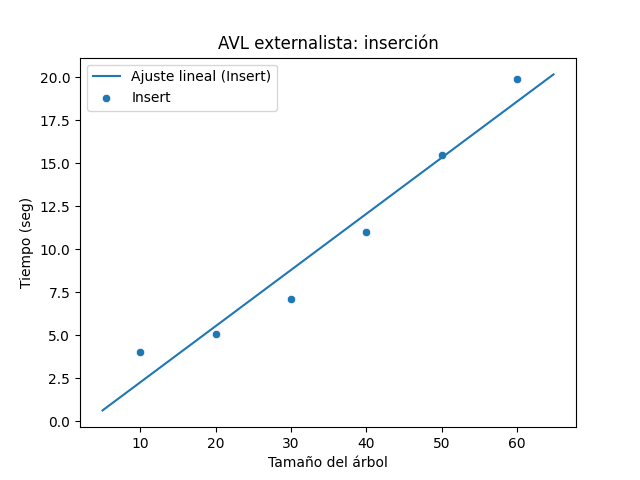
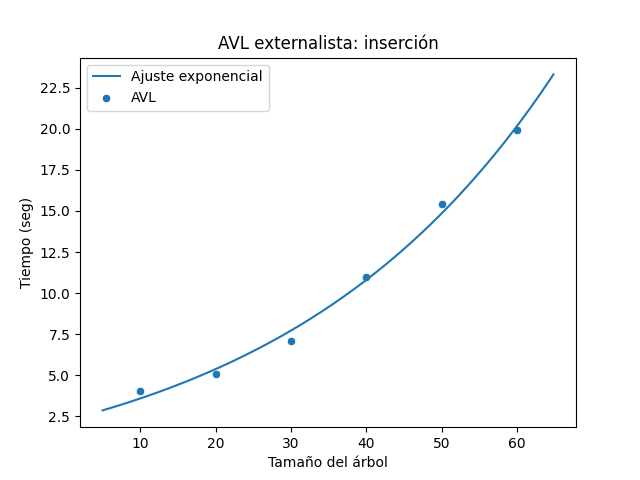
Add new plots

diff --git a/benchmark/plot.py b/benchmark/plot.py
@@ -2,7 +2,7 @@ from pandas import DataFrame, Series, concat
 from seaborn import scatterplot, lineplot
 from matplotlib.pyplot import savefig
 from scipy.optimize import curve_fit
-from numpy import exp2, log2, arange, square, array
+from numpy import exp2, log2, arange, array, abs
 
 
 bst_unsafe_running_times_df = DataFrame({
@@ -86,18 +86,8 @@ all_bench_df = all_bench_df.astype({"bench_name": "category", "bench_type": "cat
 def exp_fun(x, a, b, c):
     return a * exp2(-b * x) + c
 
-def square_fun(x, a, b):
-    return a * square(x) + b
-
-def loglinear_fun(x, a, b, c):
-    return (a * x + b) * log2(x) + c
-
 def linear_fun(x, a, b):
     return a * x + b
-
-def log_fun(x, a, b):
-    return a * log2(x) + b
-
 
 def get_fit_fun_params(data, bench_name, op):
     y_max = data[(data.bench_name == bench_name) & (data.operation == op)]["time"].max()
@@ -105,32 +95,16 @@ def get_fit_fun_params(data, bench_name, op):
     y_min = data[(data.bench_name == bench_name) & (data.operation == op)]["time"].min()
     x_min = data[(data.bench_name == bench_name) & (data.operation == op) & (data.time == y_min)]["size"].iloc[0]
 
-    if ("fullextern" in bench_name):
+    if ("unsafe" in bench_name):
+        fun = linear_fun
+        fun_legend = f"Ajuste lineal"
+        b = (y_min * x_max - y_max * x_min) / (x_max - x_min)
+        a = (y_max - b) / x_max
+        p0 = (a, b)
+    else:
         fun = exp_fun
-        fun_legend = f"Ajuste exponencial ({op.capitalize()})"
+        fun_legend = f"Ajuste exponencial"
         p0 = (1, - log2(y_max) / x_max, 0)
-    elif ((bench_name == "bst_extern") or (bench_name == "bst_intern")):
-        fun = exp_fun
-        fun_legend = f"Ajuste exponencial ({op.capitalize()})"
-        p0 = (1, - log2(y_max) / x_max, 0)
-    elif((bench_name == "avl_extern") or (bench_name == "avl_intern")):
-        fun = linear_fun
-        fun_legend = f"Ajuste lineal ({op.capitalize()})"
-        b = (y_min * x_max - y_max * x_min) / (x_max - x_min)
-        a = (y_max - b) / x_max
-        p0 = (a, b)
-    elif(bench_name == "bst_unsafe"):
-        fun = linear_fun
-        fun_legend = f"Ajuste lineal ({op.capitalize()})"
-        b = (y_min * x_max - y_max * x_min) / (x_max - x_min)
-        a = (y_max - b) / x_max
-        p0 = (a, b)
-    else:   # (bench_name == "avl_unsafe")
-        fun = linear_fun
-        fun_legend = f"Ajuste lineal ({op.capitalize()})"
-        b = (y_min * x_max - y_max * x_min) / (x_max - x_min)
-        a = (y_max - b) / x_max
-        p0 = (a, b)
     
     return fun, fun_legend, p0
 
@@ -146,6 +120,9 @@ def plot_single_operation(data, op, fit):
 
     plt = scatterplot(x="size", y="time", data=op_data)
 
+    tree_type = "AVL" if "avl" in data["bench_name"].iloc[0].lower() else "BST"
+    data_legend = f"{tree_type}"
+
     if (fit):
         bench_name = data["bench_name"].iloc[0]
         fun, fun_legend, p0 = get_fit_fun_params(data, bench_name, op)
@@ -154,12 +131,11 @@ def plot_single_operation(data, op, fit):
         y_fit = list(map(lambda x: fun(x, *popt), x_fit))
 
         plt = lineplot(x=x_fit, y=y_fit)
-        # fun_legend += f" - ss={'{:.2e}'.format(ss)}/max_s={'{:.2e}'.format(max_s)}"
         print(bench_name, op.lower(), f"- ss={'{:.2e}'.format(ss)}/max_s={'{:.2e}'.format(max_s)}", sep=" ")
 
-        return plt, ([fun_legend], [op.capitalize()])
+        return plt, ([fun_legend], [data_legend])
 
-    return plt, ([], [op.capitalize()])
+    return plt, ([], [data_legend])
 
 def set_plot_labels(plt, title, xlabel, ylabel, legends):
     plt.set_title(title)
@@ -207,6 +183,8 @@ def _combine_legend_lists(*args):
 
 
 if __name__ == '__main__':
+    ##### Unsafe
+    ###   BST
     plt, legend_list = plot_single_operation(bst_unsafe_running_times_df, "INSERT", True)
     plt = set_plot_labels(plt, "BST no seguro: inserción", "Tamaño del árbol", "Tiempo (seg)", _combine_legend_lists(legend_list))
     save_plot(plt, "plots/unsafe/bst_unsafe_insert.png")
@@ -216,7 +194,7 @@ if __name__ == '__main__':
     plt, legend_list = plot_single_operation(bst_unsafe_running_times_df, "LOOKUP", True)
     plt = set_plot_labels(plt, "BST no seguro: búsqueda", "Tamaño del árbol", "Tiempo (seg)", _combine_legend_lists(legend_list))
     save_plot(plt, "plots/unsafe/bst_unsafe_lookup.png")
-
+    ###   AVL
     plt, legend_list = plot_single_operation(avl_unsafe_running_times_df, "INSERT", True)
     plt = set_plot_labels(plt, "AVL no seguro: inserción", "Tamaño del árbol", "Tiempo (seg)", _combine_legend_lists(legend_list))
     save_plot(plt, "plots/unsafe/avl_unsafe_insert.png")
@@ -226,7 +204,22 @@ if __name__ == '__main__':
     plt, legend_list = plot_single_operation(avl_unsafe_running_times_df, "LOOKUP", False)
     plt = set_plot_labels(plt, "AVL no seguro: búsqueda", "Tamaño del árbol", "Tiempo (seg)", _combine_legend_lists(legend_list))
     save_plot(plt, "plots/unsafe/avl_unsafe_lookup.png")
+    ###   BST/AVL per operation
+    _, legend_list_bst = plot_single_operation(bst_unsafe_running_times_df, "INSERT", True)
+    plt, legend_list_avl = plot_single_operation(avl_unsafe_running_times_df, "INSERT", True)
+    plt = set_plot_labels(plt, "BST/AVL: inserción", "Tamaño del árbol", "Tiempo (seg)", _combine_legend_lists(legend_list_bst, legend_list_avl))
+    save_plot(plt, "plots/unsafe/bst_vs_avl_unsafe_insert.png")
+    _, legend_list_bst = plot_single_operation(bst_unsafe_running_times_df, "DELETE", True)
+    plt, legend_list_avl = plot_single_operation(avl_unsafe_running_times_df, "DELETE", True)
+    plt = set_plot_labels(plt, "BST/AVL: borrado", "Tamaño del árbol", "Tiempo (seg)", _combine_legend_lists(legend_list_bst, legend_list_avl))
+    save_plot(plt, "plots/unsafe/bst_vs_avl_unsafe_delete.png")
+    _, legend_list_bst = plot_single_operation(bst_unsafe_running_times_df, "LOOKUP", True)
+    plt, legend_list_avl = plot_single_operation(avl_unsafe_running_times_df, "LOOKUP", False)
+    plt = set_plot_labels(plt, "BST/AVL: búsqueda", "Tamaño del árbol", "Tiempo (seg)", _combine_legend_lists(legend_list_bst, legend_list_avl))
+    save_plot(plt, "plots/unsafe/bst_vs_avl_unsafe_lookup.png")
 
+    ##### Fullextern
+    ###   BST
     plt, legend_list = plot_single_operation(bst_fullextern_compilation_times_df, "INSERT", True)
     plt = set_plot_labels(plt, "BST completamente externalista: inserción", "Tamaño del árbol", "Tiempo (seg)", _combine_legend_lists(legend_list))
     save_plot(plt, "plots/fullextern/bst_fullextern_insert.png")
@@ -236,7 +229,7 @@ if __name__ == '__main__':
     plt, legend_list = plot_single_operation(bst_fullextern_compilation_times_df, "LOOKUP", True)
     plt = set_plot_labels(plt, "BST completamente externalista: búsqueda", "Tamaño del árbol", "Tiempo (seg)", _combine_legend_lists(legend_list))
     save_plot(plt, "plots/fullextern/bst_fullextern_lookup.png")
-
+    ###   AVL
     plt, legend_list = plot_single_operation(avl_fullextern_compilation_times_df, "INSERT", True)
     plt = set_plot_labels(plt, "AVL completamente externalista: inserción", "Tamaño del árbol", "Tiempo (seg)", _combine_legend_lists(legend_list))
     save_plot(plt, "plots/fullextern/avl_fullextern_insert.png")
@@ -246,7 +239,22 @@ if __name__ == '__main__':
     plt, legend_list = plot_single_operation(avl_fullextern_compilation_times_df, "LOOKUP", True)
     plt = set_plot_labels(plt, "AVL completamente externalista: búsqueda", "Tamaño del árbol", "Tiempo (seg)", _combine_legend_lists(legend_list))
     save_plot(plt, "plots/fullextern/avl_fullextern_lookup.png")
+    ###   BST/AVL per operation
+    _, legend_list_bst = plot_single_operation(bst_fullextern_compilation_times_df, "INSERT", True)
+    plt, legend_list_avl = plot_single_operation(avl_fullextern_compilation_times_df, "INSERT", True)
+    plt = set_plot_labels(plt, "BST/AVL: inserción", "Tamaño del árbol", "Tiempo (seg)", _combine_legend_lists(legend_list_bst, legend_list_avl))
+    save_plot(plt, "plots/fullextern/bst_vs_avl_fullextern_insert.png")
+    _, legend_list_bst = plot_single_operation(bst_fullextern_compilation_times_df, "DELETE", True)
+    plt, legend_list_avl = plot_single_operation(avl_fullextern_compilation_times_df, "DELETE", True)
+    plt = set_plot_labels(plt, "BST/AVL: borrado", "Tamaño del árbol", "Tiempo (seg)", _combine_legend_lists(legend_list_bst, legend_list_avl))
+    save_plot(plt, "plots/fullextern/bst_vs_avl_fullextern_delete.png")
+    _, legend_list_bst = plot_single_operation(bst_fullextern_compilation_times_df, "LOOKUP", True)
+    plt, legend_list_avl = plot_single_operation(avl_fullextern_compilation_times_df, "LOOKUP", True)
+    plt = set_plot_labels(plt, "BST/AVL: búsqueda", "Tamaño del árbol", "Tiempo (seg)", _combine_legend_lists(legend_list_bst, legend_list_avl))
+    save_plot(plt, "plots/fullextern/bst_vs_avl_fullextern_lookup.png")
 
+    ##### Extern
+    ###   BST
     plt, legend_list = plot_single_operation(bst_extern_compilation_times_df, "INSERT", True)
     plt = set_plot_labels(plt, "BST externalista: inserción", "Tamaño del árbol", "Tiempo (seg)", _combine_legend_lists(legend_list))
     save_plot(plt, "plots/extern/bst_extern_insert.png")
@@ -256,7 +264,7 @@ if __name__ == '__main__':
     plt, legend_list = plot_single_operation(bst_extern_compilation_times_df, "LOOKUP", True)
     plt = set_plot_labels(plt, "BST externalista: búsqueda", "Tamaño del árbol", "Tiempo (seg)", _combine_legend_lists(legend_list))
     save_plot(plt, "plots/extern/bst_extern_lookup.png")
-
+    ### AVL
     plt, legend_list = plot_single_operation(avl_extern_compilation_times_df, "INSERT", True)
     plt = set_plot_labels(plt, "AVL externalista: inserción", "Tamaño del árbol", "Tiempo (seg)", _combine_legend_lists(legend_list))
     save_plot(plt, "plots/extern/avl_extern_insert.png")
@@ -266,7 +274,22 @@ if __name__ == '__main__':
     plt, legend_list = plot_single_operation(avl_extern_compilation_times_df, "LOOKUP", True)
     plt = set_plot_labels(plt, "AVL externalista: búsqueda", "Tamaño del árbol", "Tiempo (seg)", _combine_legend_lists(legend_list))
     save_plot(plt, "plots/extern/avl_extern_lookup.png")
+    ###   BST/AVL per operation
+    _, legend_list_bst = plot_single_operation(bst_extern_compilation_times_df, "INSERT", True)
+    plt, legend_list_avl = plot_single_operation(avl_extern_compilation_times_df, "INSERT", True)
+    plt = set_plot_labels(plt, "BST/AVL: inserción", "Tamaño del árbol", "Tiempo (seg)", _combine_legend_lists(legend_list_bst, legend_list_avl))
+    save_plot(plt, "plots/extern/bst_vs_avl_extern_insert.png")
+    _, legend_list_bst = plot_single_operation(bst_extern_compilation_times_df, "DELETE", True)
+    plt, legend_list_avl = plot_single_operation(avl_extern_compilation_times_df, "DELETE", True)
+    plt = set_plot_labels(plt, "BST/AVL: borrado", "Tamaño del árbol", "Tiempo (seg)", _combine_legend_lists(legend_list_bst, legend_list_avl))
+    save_plot(plt, "plots/extern/bst_vs_avl_extern_delete.png")
+    _, legend_list_bst = plot_single_operation(bst_extern_compilation_times_df, "LOOKUP", True)
+    plt, legend_list_avl = plot_single_operation(avl_extern_compilation_times_df, "LOOKUP", True)
+    plt = set_plot_labels(plt, "BST/AVL: búsqueda", "Tamaño del árbol", "Tiempo (seg)", _combine_legend_lists(legend_list_bst, legend_list_avl))
+    save_plot(plt, "plots/extern/bst_vs_avl_extern_lookup.png")
 
+    ##### Intern
+    ###   BST
     plt, legend_list = plot_single_operation(bst_intern_compilation_times_df, "INSERT", True)
     plt = set_plot_labels(plt, "BST internalista: inserción", "Tamaño del árbol", "Tiempo (seg)", _combine_legend_lists(legend_list))
     save_plot(plt, "plots/intern/bst_intern_insert.png")
@@ -276,7 +299,7 @@ if __name__ == '__main__':
     plt, legend_list = plot_single_operation(bst_intern_compilation_times_df, "LOOKUP", True)
     plt = set_plot_labels(plt, "BST internalista: búsqueda", "Tamaño del árbol", "Tiempo (seg)", _combine_legend_lists(legend_list))
     save_plot(plt, "plots/intern/bst_intern_lookup.png")
-
+    ###   AVL
     plt, legend_list = plot_single_operation(avl_intern_compilation_times_df, "INSERT", True)
     plt = set_plot_labels(plt, "AVL internalista: inserción", "Tamaño del árbol", "Tiempo (seg)", _combine_legend_lists(legend_list))
     save_plot(plt, "plots/intern/avl_intern_insert.png")
@@ -286,3 +309,50 @@ if __name__ == '__main__':
     plt, legend_list = plot_single_operation(avl_intern_compilation_times_df, "LOOKUP", True)
     plt = set_plot_labels(plt, "AVL internalista: búsqueda", "Tamaño del árbol", "Tiempo (seg)", _combine_legend_lists(legend_list))
     save_plot(plt, "plots/intern/avl_intern_lookup.png")
+    ###   BST/AVL per operation
+    _, legend_list_bst = plot_single_operation(bst_intern_compilation_times_df, "INSERT", True)
+    plt, legend_list_avl = plot_single_operation(avl_intern_compilation_times_df, "INSERT", True)
+    plt = set_plot_labels(plt, "BST/AVL: inserción", "Tamaño del árbol", "Tiempo (seg)", _combine_legend_lists(legend_list_bst, legend_list_avl))
+    save_plot(plt, "plots/intern/bst_vs_avl_intern_insert.png")
+    _, legend_list_bst = plot_single_operation(bst_intern_compilation_times_df, "DELETE", True)
+    plt, legend_list_avl = plot_single_operation(avl_intern_compilation_times_df, "DELETE", True)
+    plt = set_plot_labels(plt, "BST/AVL: borrado", "Tamaño del árbol", "Tiempo (seg)", _combine_legend_lists(legend_list_bst, legend_list_avl))
+    save_plot(plt, "plots/intern/bst_vs_avl_intern_delete.png")
+    _, legend_list_bst = plot_single_operation(bst_intern_compilation_times_df, "LOOKUP", True)
+    plt, legend_list_avl = plot_single_operation(avl_intern_compilation_times_df, "LOOKUP", True)
+    plt = set_plot_labels(plt, "BST/AVL: búsqueda", "Tamaño del árbol", "Tiempo (seg)", _combine_legend_lists(legend_list_bst, legend_list_avl))
+    save_plot(plt, "plots/intern/bst_vs_avl_intern_lookup.png")
+
+    ##### Extern/Intern (BST)
+    ###   Insert
+    _, legend_list_bst1 = plot_single_operation(bst_extern_compilation_times_df, "INSERT", True)
+    plt, legend_list_bst2 = plot_single_operation(bst_intern_compilation_times_df, "INSERT", True)
+    plt = set_plot_labels(plt, "Externalista/Internalista (BST): inserción", "Tamaño del árbol", "Tiempo (seg)", _combine_legend_lists(legend_list_bst1, legend_list_bst2))
+    save_plot(plt, "plots/bst_extern_vs_bst_intern_insert.png")
+    ###   Delete
+    _, legend_list_bst1 = plot_single_operation(bst_extern_compilation_times_df, "DELETE", True)
+    plt, legend_list_bst2 = plot_single_operation(bst_intern_compilation_times_df, "DELETE", True)
+    plt = set_plot_labels(plt, "Externalista/Internalista (BST): borrado", "Tamaño del árbol", "Tiempo (seg)", _combine_legend_lists(legend_list_bst1, legend_list_bst2))
+    save_plot(plt, "plots/bst_extern_vs_bst_intern_delete.png")
+    ###   Lookup
+    _, legend_list_bst1 = plot_single_operation(bst_extern_compilation_times_df, "LOOKUP", True)
+    plt, legend_list_bst2 = plot_single_operation(bst_intern_compilation_times_df, "LOOKUP", True)
+    plt = set_plot_labels(plt, "Externalista/Internalista (BST): búsqueda", "Tamaño del árbol", "Tiempo (seg)", _combine_legend_lists(legend_list_bst1, legend_list_bst2))
+    save_plot(plt, "plots/bst_extern_vs_bst_intern_lookup.png")
+
+    ##### Extern/Intern (AVL)
+    ###   Insert
+    _, legend_list_avl1 = plot_single_operation(avl_extern_compilation_times_df, "INSERT", True)
+    plt, legend_list_avl2 = plot_single_operation(avl_intern_compilation_times_df, "INSERT", True)
+    plt = set_plot_labels(plt, "Externalista/Internalista (AVL): inserción", "Tamaño del árbol", "Tiempo (seg)", _combine_legend_lists(legend_list_avl1, legend_list_avl2))
+    save_plot(plt, "plots/avl_extern_vs_avl_intern_insert.png")
+    ###   Delete
+    _, legend_list_avl1 = plot_single_operation(avl_extern_compilation_times_df, "DELETE", True)
+    plt, legend_list_avl2 = plot_single_operation(avl_intern_compilation_times_df, "DELETE", True)
+    plt = set_plot_labels(plt, "Externalista/Internalista (AVL): borrado", "Tamaño del árbol", "Tiempo (seg)", _combine_legend_lists(legend_list_avl1, legend_list_avl2))
+    save_plot(plt, "plots/avl_extern_vs_avl_intern_delete.png")
+    ###   Lookup
+    _, legend_list_avl1 = plot_single_operation(avl_extern_compilation_times_df, "LOOKUP", True)
+    plt, legend_list_avl2 = plot_single_operation(avl_intern_compilation_times_df, "LOOKUP", True)
+    plt = set_plot_labels(plt, "Externalista/Internalista (AVL): búsqueda", "Tamaño del árbol", "Tiempo (seg)", _combine_legend_lists(legend_list_avl1, legend_list_avl2))
+    save_plot(plt, "plots/avl_extern_vs_avl_intern_lookup.png")
